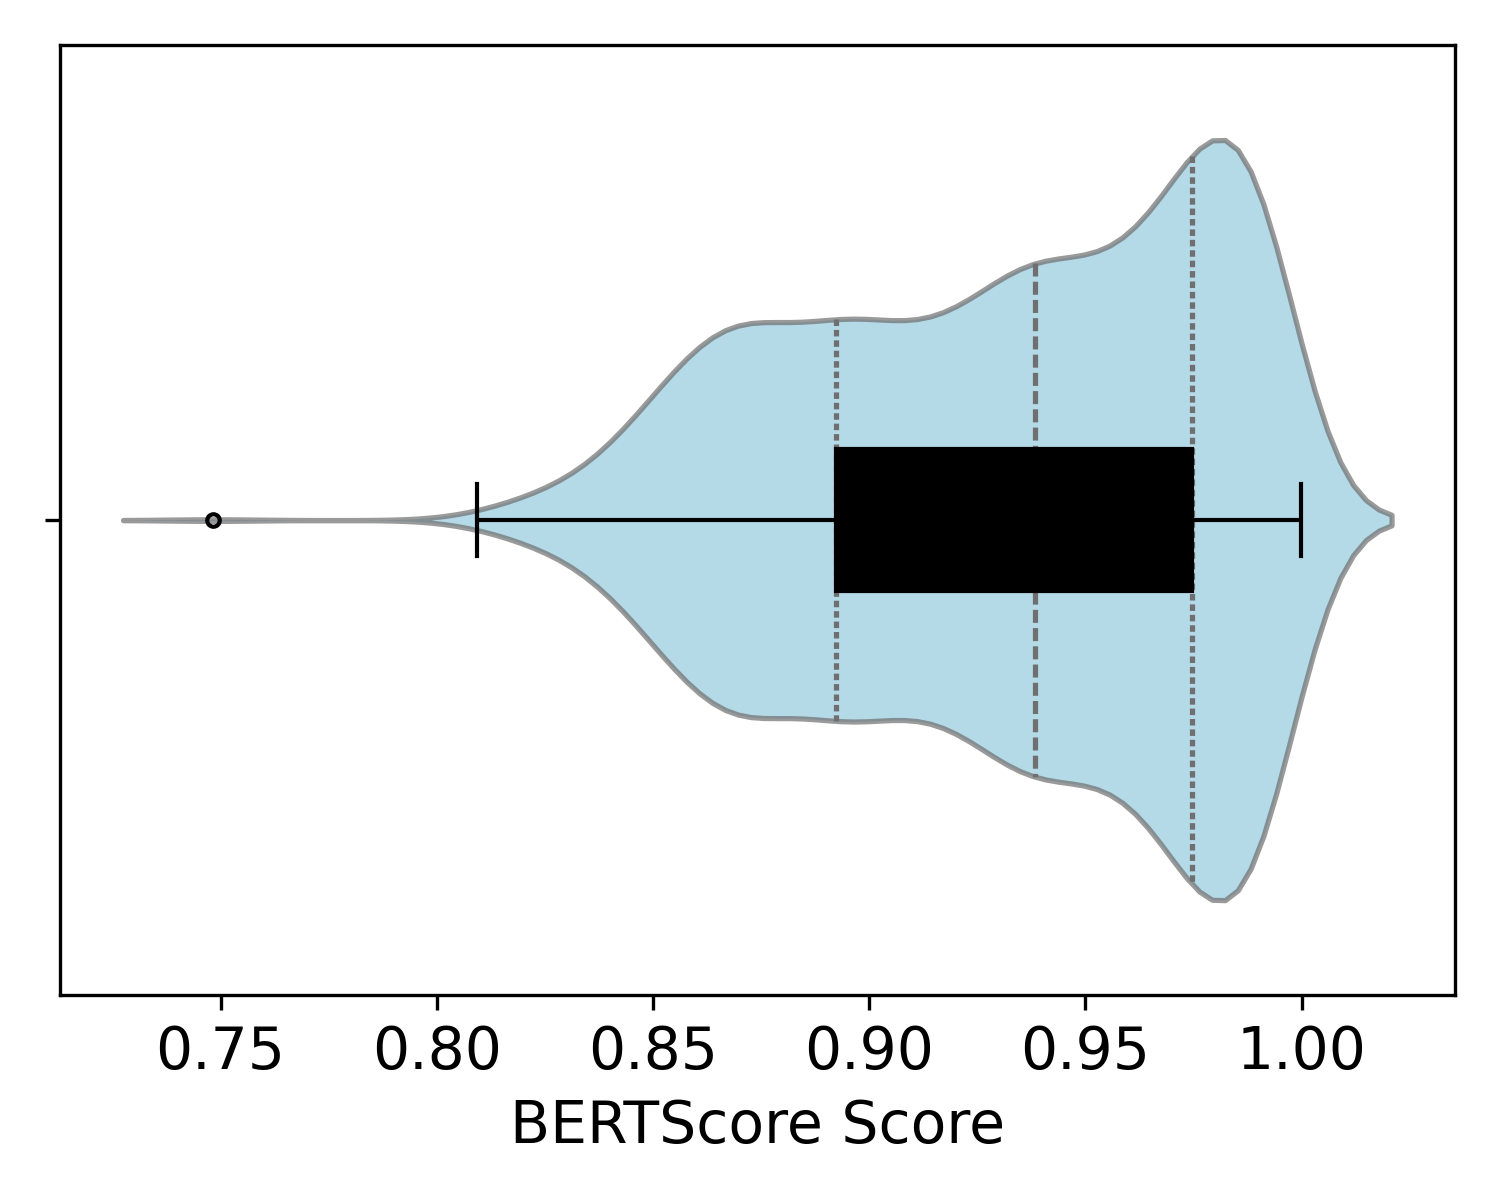
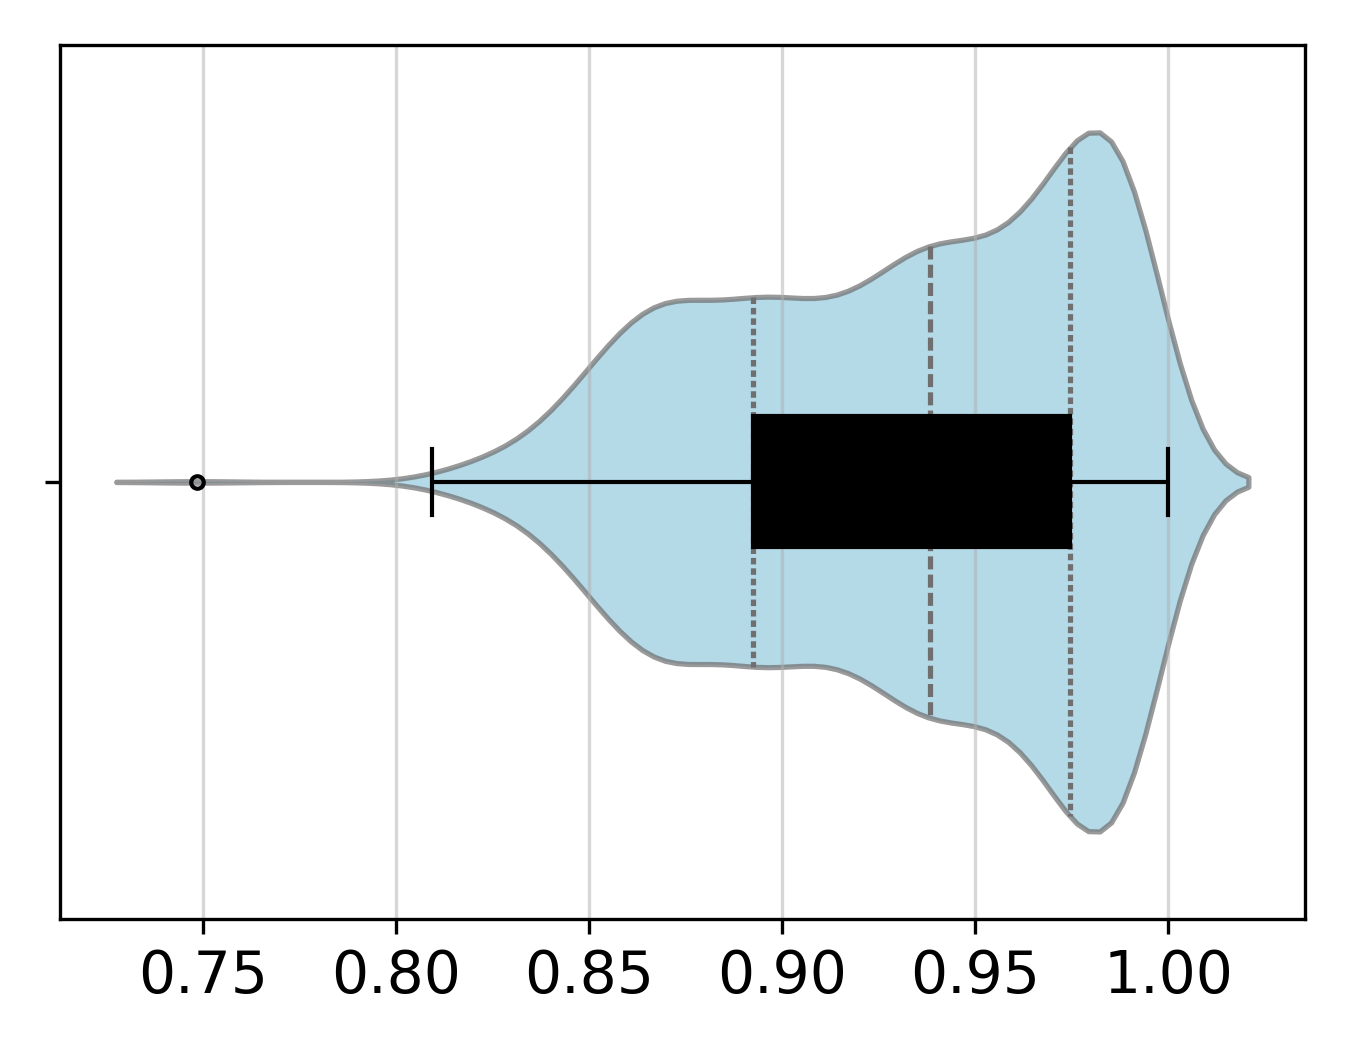
rerun explore datasets with transformed violing plots

Changed region(s): [[0.0311, 0.0305, 0.9956, 0.9752], [0.0933, 0.1219, 0.9333, 0.7924]]

diff --git a/src/explore_datasets.py b/src/explore_datasets.py
@@ -276,16 +276,17 @@ def plot_eval_values(data: list, metric: str, dataset_dir: str) -> None:
     plt.savefig(f"{output_dir}/{metric}_hist.png", dpi=300)
 
     ############ violin plot ############
-    plt.figure(figsize=(5, 4))
+    plt.figure(figsize=(4.5, 3.5))
     sns.violinplot(x=target_vals, color=COLORMAP["common_color"], alpha=0.7, inner="quartile")
     sns.boxplot(x=target_vals, color='black', width=0.15, fliersize=3)  # Add box plot for summary stats
-    plt.xlabel(f'{metric} Score')
+    # plt.xlabel(f'{metric}')
     # plt.title(f'Distribution of {metric} Scores')
     
     # save plots
     output_dir = f"{dataset_dir}/stats/distributions"
     os.makedirs(output_dir, exist_ok=True)
     plt.tight_layout()
+    plt.grid(axis='x', linestyle='solid', alpha=0.5)
     plt.savefig(f"{output_dir}/{metric}_violin.png", dpi=300)
     
 def save_log(data: list, dataset_name: str, dataset_dir: str, comparison_metrics: list, similarity_metrics: list) -> None:
@@ -400,13 +401,13 @@ def plot_qq_plot(data: list, metric: str, dataset_dir: str) -> None:
 def main():
 
     DATASETS = [
-        # "simpa",
+        "simpa",
         # "simpa_lexical",
         # "simpa_syntactic",
         "newsela",
         # "medeasi",
         # "wikilarge_ori_global",
-        # "wikilarge_ori_splitwise",
+        "wikilarge_ori_splitwise",
         # "wikilarge_global",
         # "wikilarge_splitwise",
         # "wikilarge"
